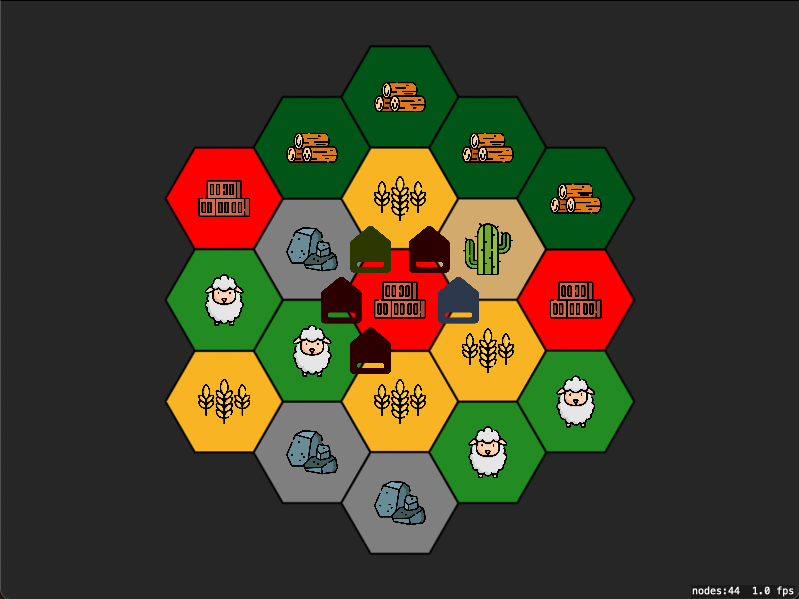
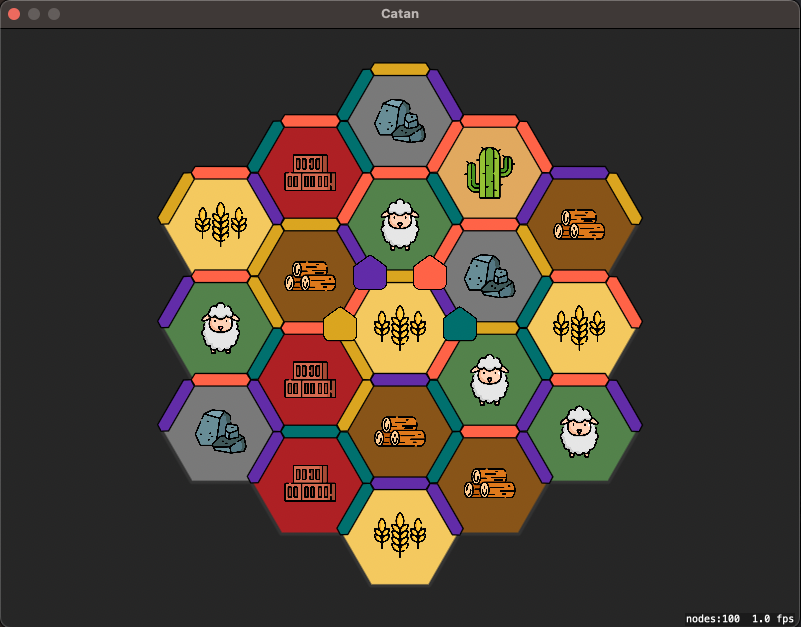
feat: adds roads and building colours

diff --git a/Catan/GameScene.swift b/Catan/GameScene.swift
@@ -7,12 +7,23 @@
 
 
 enum ColorScheme {
-    static let grassGreen = SKColor(red: CGFloat(34.0/255.0), green: CGFloat(139.0/255.0), blue: CGFloat(34.0/255.0), alpha: (1.0))
-    static let gold = SKColor(red: CGFloat(255.0/255.0), green: CGFloat(215.0/255.0), blue: CGFloat(0.0/255.0), alpha: CGFloat(1.0))
-    static let mapBorder = SKColor.black
-    static let forestGreen = SKColor(red:CGFloat(0.0),green:CGFloat(85.0/255.0),blue:CGFloat(23.0/255.0),alpha: CGFloat(1.0))
-    static let sandYellow = SKColor(red: CGFloat(210.0/255.0), green: CGFloat(170.0/255.0), blue: CGFloat(109.0/255.0), alpha: (1.0))
-    static let wheatYellow = SKColor(red: CGFloat(248.0/255.0), green: CGFloat(180.0/255.0), blue: CGFloat(35.0/255.0), alpha: (1.0))
+    
+    static let grassGreen = SKColor(red: CGFloat(83.0/255.0), green: CGFloat(130.0/255.0), blue: CGFloat(75.0/255.0), alpha: CGFloat(1.0))
+    static let warmWoodBrown = SKColor(red: CGFloat(136.0/255.0), green: CGFloat(84.0/255.0), blue: CGFloat(24.0/255.0), alpha: CGFloat(1.0))
+    static let stoneGray = SKColor(red: CGFloat(121.0/255.0), green: CGFloat(121.0/255.0), blue: CGFloat(121.0/255.0), alpha: CGFloat(1.0))
+    static let brickRed = SKColor(red: CGFloat(174.0/255.0), green: CGFloat(32.0/255.0), blue: CGFloat(36.0/255.0), alpha: CGFloat(1.0))
+    static let wheatYellow = SKColor(red: CGFloat(244.0/255.0), green: CGFloat(201.0/255.0), blue: CGFloat(95.0/255.0), alpha: CGFloat(1.0))
+    static let desertSand = SKColor(red: CGFloat(225.0/255.0), green: CGFloat(169.0/255.0), blue: CGFloat(95.0/255.0), alpha: CGFloat(1.0))
+
+    static let mapBorder = SKColor(red: CGFloat(51.0/255.0), green: CGFloat(51.0/255.0), blue: CGFloat(51.0/255.0), alpha: CGFloat(1.0))
+
+    
+    static let color1 = SKColor(red: CGFloat(0.0/255.0), green: CGFloat(112.0/255.0), blue: CGFloat(110.0/255.0), alpha: CGFloat(1.0))
+    static let color2 = SKColor(red: CGFloat(255.0/255.0), green: CGFloat(99.0/255.0), blue: CGFloat(71.0/255.0), alpha: CGFloat(1.0))
+    static let color3 = SKColor(red: CGFloat(98.0/255.0), green: CGFloat(44.0/255.0), blue: CGFloat(168.0/255.0), alpha: CGFloat(1.0))
+    static let color4 = SKColor(red: CGFloat(218.0/255.0), green: CGFloat(165.0/255.0), blue: CGFloat(32.0/255.0), alpha: CGFloat(1.0))
+
+
 }
 
 enum Resource: String {
@@ -38,20 +49,57 @@ class Building {
     
     init(color: SKColor) {
         sprite = SKSpriteNode(imageNamed: BuildingType.village.rawValue)
-        sprite.xScale = CGFloat(64.0/512.0)
-        sprite.yScale = CGFloat(64.0/512.0)
+        sprite.xScale = CGFloat(48.0/512.0)
+        sprite.yScale = CGFloat(48.0/512.0)
         sprite.color = color
         sprite.colorBlendFactor = 1
     }
     
     func placeAt(point: CGPoint) {
         sprite.position = point
+        sprite.zPosition = 15
     }
     
     func attachTo(scene: SKScene) {
         scene.addChild(sprite)
     }
     
+}
+
+class Road {
+    
+    var shapeNode: SKShapeNode
+    
+    init(color: SKColor) {
+        shapeNode = SKShapeNode()
+        let path = CGMutablePath()
+        let width = CGFloat(38)
+        let height = CGFloat(8)
+        let delta = CGFloat(5.0 )
+        path.move(to: CGPoint(x: delta, y: -height))
+        path.addLine(to: CGPoint(x: 2*width - delta, y: -height))
+        path.addLine(to: CGPoint(x: 2*width, y: CGFloat(0.0)))
+        path.addLine(to: CGPoint(x: 2*width - delta, y: +height))
+        path.addLine(to: CGPoint(x: delta, y: +height))
+        path.addLine(to: CGPoint(x: CGFloat(0.0), y: CGFloat(0.0)))
+        path.closeSubpath()
+        shapeNode.fillColor = color
+        shapeNode.lineWidth = 1.0
+        shapeNode.strokeColor = SKColor.black
+//        shapeNode.lineWidth = 2.0
+        
+        shapeNode.path = path
+    }
+    
+    func attachTo(scene: SKScene) {
+        scene.addChild(self.shapeNode)
+    }
+    
+    func placeAt(point: CGPoint, direction: CGFloat) {
+        shapeNode.position = point
+        shapeNode.zPosition = 10
+        shapeNode.zRotation = direction
+    }
 }
 
 class Hex {
@@ -70,7 +118,8 @@ class Hex {
     }
     
     var corners : [Building?] = [nil, nil, nil, nil, nil, nil]
-    
+    var roads: [Road?] = [nil, nil, nil, nil, nil, nil]
+
     private var cq: CGFloat = 0.0
     private var cr: CGFloat = 0.0
     private var cc: CGFloat = 0.0
@@ -109,22 +158,22 @@ class Hex {
         path.closeSubpath()
         shapeNode?.path = path
         shapeNode?.strokeColor = ColorScheme.mapBorder
-        shapeNode?.lineWidth = 2.0
+        shapeNode?.lineWidth = 5
         
         switch (resource) {
             
         case .wheat:
             shapeNode?.fillColor = ColorScheme.wheatYellow
         case .brick:
-            shapeNode?.fillColor = SKColor.red
+            shapeNode?.fillColor = ColorScheme.brickRed
         case .stone:
-            shapeNode?.fillColor = SKColor.gray
+            shapeNode?.fillColor = ColorScheme.stoneGray
         case .wood:
-            shapeNode?.fillColor = ColorScheme.forestGreen
+            shapeNode?.fillColor = ColorScheme.warmWoodBrown
         case .sheep:
             shapeNode?.fillColor = ColorScheme.grassGreen
         case .desert:
-            shapeNode?.fillColor = ColorScheme.sandYellow
+            shapeNode?.fillColor = ColorScheme.desertSand
         }
         self.radius = radius
         self.scene?.addChild(shapeNode!)
@@ -138,14 +187,17 @@ class Hex {
             for corner in corners {
                 corner?.attachTo(scene: scene)
             }
+            for road in roads {
+                road?.attachTo(scene: scene)
+            }
             self.scene = scene
         }
     }
     
     private func pointCoords(index: CGFloat) -> CGPoint {
-        let angle = index.truncatingRemainder(dividingBy: 6) * (2.0 * CGFloat.pi / 6.0)
-        let x = radius * cos(angle)
-        let y = radius * sin(angle)
+        let angle = index * (2.0 * CGFloat.pi / 6.0)
+        let x = (radius+1.5) * cos(angle)
+        let y = (radius+1.5) * sin(angle)
         return CGPoint(x: x, y: y)
     }
     
@@ -153,7 +205,7 @@ class Hex {
         corners[Int(corner)] = building
         var newPostion = pointCoords(index: corner)
         newPostion.x += self.shapeNode!.position.x
-        newPostion.y += self.shapeNode!.position.y
+        newPostion.y += self.shapeNode!.position.y + CGFloat(6.0)
         building.placeAt(point:newPostion)
         if scene != nil {
             building.attachTo(scene: scene!)
@@ -165,12 +217,23 @@ class Hex {
         cr = r
         cc = c
         
-        x = radius * CGFloat(3.0)/2 * CGFloat(cq)
-        y = radius * (sqrt3/2 * cq  + sqrt3 * cr)
+        x = (radius + 1.5) * CGFloat(3.0)/2 * CGFloat(cq)
+        y = (radius + 1.5) * (sqrt3/2 * cq  + sqrt3 * cr)
         shapeNode?.position = CGPoint(x:x, y:y)
         icon.position = CGPoint(x: x, y: y)
     }
     
+    func addRoad(corner: Int, color: SKColor) {
+        let road = Road(color:color)
+        roads[corner] = road
+        if scene != nil {
+            road.attachTo(scene: self.scene!)
+        }
+        var newPosition = pointCoords(index: CGFloat(corner))
+        newPosition.x += self.shapeNode!.position.x
+        newPosition.y += self.shapeNode!.position.y
+        road.placeAt(point:newPosition, direction:(CGFloat.pi / 3) * CGFloat(2+corner))
+    }
     
     
 }
@@ -184,6 +247,12 @@ class Map {
     
     init() {
         
+        var color: [SKColor] = [
+            ColorScheme.color1,
+            ColorScheme.color2,
+            ColorScheme.color3,
+            ColorScheme.color4,
+        ]
         
         var resources : [Resource] = [
             .wheat, .wheat, .wheat, .wheat,
@@ -201,16 +270,23 @@ class Map {
                 row[r]=newHex
                 newHex.build(radius: radius)
                 newHex.placeAt(q: CGFloat(q), r: CGFloat(r), c: CGFloat(0-r-q))
+                newHex.addRoad(corner: 0, color: color[Int.random(in: 0...color.count-1)])
+                newHex.addRoad(corner: 1, color: color[Int.random(in: 0...color.count-1)])
+                newHex.addRoad(corner: 2, color: color[Int.random(in: 0...color.count-1)])
                 resources.remove(at: colorIndex)
             }
             map[q]=row
         }
         
-        map[0]?[0]?.addBuilding(building: Building(color: SKColor.white), corner: CGFloat(0.0))
-        map[0]?[0]?.addBuilding(building: Building(color: SKColor.red), corner: CGFloat(1.0))
-        map[0]?[0]?.addBuilding(building: Building(color: SKColor.yellow), corner: CGFloat(2.0))
-        map[0]?[0]?.addBuilding(building: Building(color: SKColor.red), corner: CGFloat(3.0))
-        map[0]?[0]?.addBuilding(building: Building(color: SKColor.red), corner: CGFloat(4.0))
+        map[0]?[0]?.addBuilding(building: Building(color: ColorScheme.color1), corner: CGFloat(0.0))
+        map[0]?[0]?.addBuilding(building: Building(color: ColorScheme.color2), corner: CGFloat(1.0))
+        map[0]?[0]?.addBuilding(building: Building(color: ColorScheme.color3), corner: CGFloat(2.0))
+        map[0]?[0]?.addBuilding(building: Building(color: ColorScheme.color4), corner: CGFloat(3.0))
+//        map[0]?[0]?.addBuilding(building: Building(color: SKColor.red), corner: CGFloat(1.0))
+//        map[0]?[0]?.addBuilding(building: Building(color: SKColor.yellow), corner: CGFloat(2.0))
+//        map[0]?[0]?.addBuilding(building: Building(color: SKColor.red), corner: CGFloat(3.0))
+//        map[0]?[0]?.addBuilding(building: Building(color: SKColor.red), corner: CGFloat(4.0))
+        
     }
     
     public func attachTo(scene: SKScene) {
